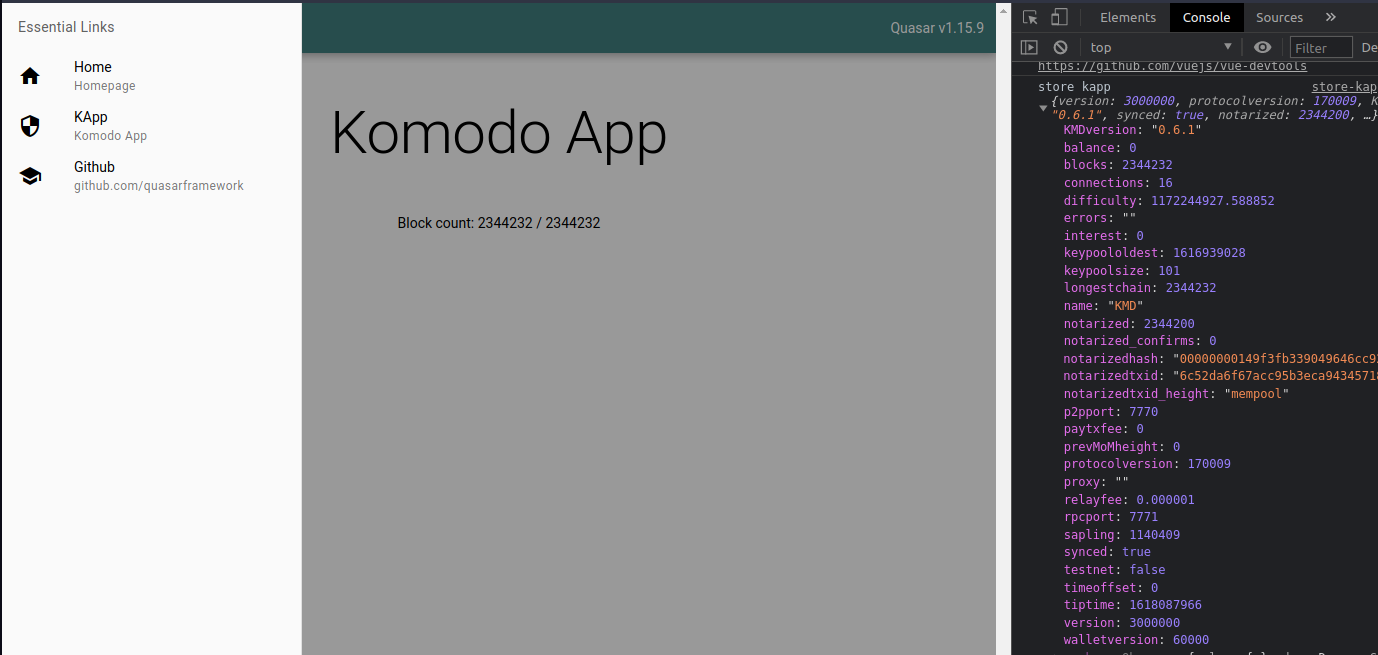
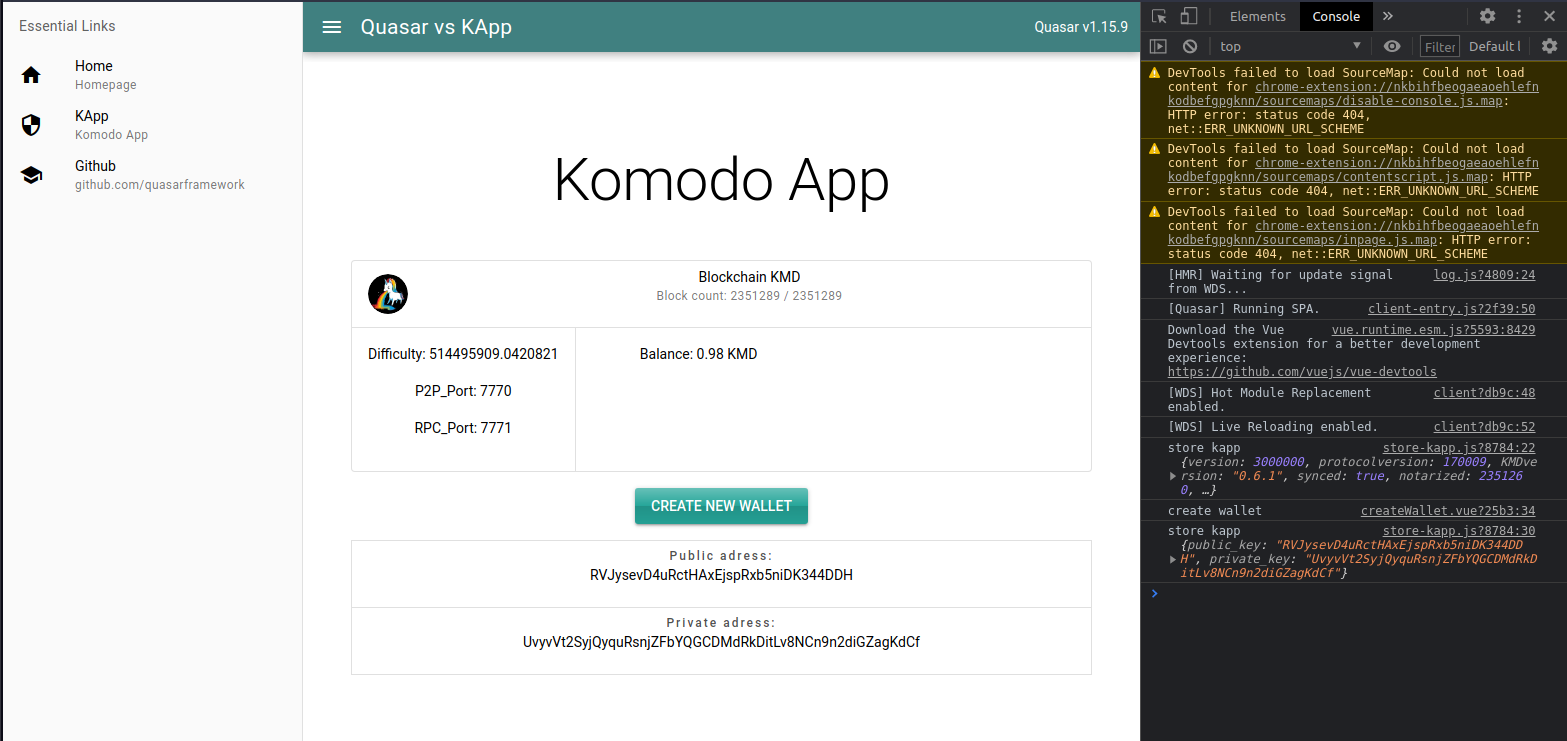
edit: getinfo // add: createNewWallet

diff --git a/back/router/controllers/KappController.js b/back/router/controllers/KappController.js
@@ -3,10 +3,10 @@ const SmartChain = require("node-komodo-rpc"); // Module By Gcharang
 
 // Config komodo.conf
 const config = {
-    rpchost: "localhost", // to put in the .env
-    rpcport: 7771, // to put in the .env
-    rpcuser: "hsukrd", // to put in the .env
-    rpcpassword: "mon$uperMotDePa$$e" // to put in the .env
+  rpchost: "localhost", // to put in the .env
+  rpcport: 7771, // to put in the .env
+  rpcuser: "hsukrd", // to put in the .env
+  rpcpassword: "mon$uperMotDePa$$e" // to put in the .env
 };
 
 // Config Komodo rpc
@@ -15,28 +15,58 @@ const komodoRPC = komodo.rpc();
 
 // List actions
 module.exports = {
-    getInfo: (req, res) => {
-        komodoRPC
-          .getinfo()
-          .then(info => {
-            console.log(info);
-            res.json({ data: info })
-          })
-          .catch(error => {
-            console.log(error);
-            throw new Error(error);
-          });
-    },
-    listUnspent: (req, res) => {
-        komodoRPC
-          .listunspent(6, 9999999, [
-            "RPS3xTZCzr6aQfoMw5Bu1rpQBF6iVCWsyu",
-            "RBtNBJjWKVKPFG4To5Yce9TWWmc2AenzfZ"
-          ])
-          .then(outs => {
-            console.log(outs);
-            res.json({ data: outs })
-          })
-          .catch(error => console.log(error));
-    }
+  getInfo: (req, res) => {
+    komodoRPC
+      .getinfo()
+      .then(info => {
+        console.log(info);
+        res.json({ data: info })
+      })
+      .catch(error => {
+        console.log(error);
+        throw new Error(error);
+      });
+  },
+  listUnspent: (req, res) => {
+    komodoRPC
+      .listunspent(6, 9999999, [
+        "RPS3xTZCzr6aQfoMw5Bu1rpQBF6iVCWsyu",
+        "RBtNBJjWKVKPFG4To5Yce9TWWmc2AenzfZ"
+      ])
+      .then(outs => {
+        console.log(outs);
+        res.json({ data: outs })
+      })
+      .catch(error => console.log(error));
+  },
+  getWalletInfo: (req, res) => {
+    komodoRPC
+      .getwalletinfo()
+      .then(info => {
+        console.log(info);
+        res.json({ data: info })
+      })
+      .catch(error => {
+        console.log(error);
+        throw new Error(error);
+      });
+  },
+  createwallet: (req, res) => {
+    komodoRPC.getnewaddress().then(pub => {
+      komodoRPC.dumpprivkey(pub).then(priv => {
+        res.json({
+          data: {
+            public_key: pub,
+            private_key: priv
+          }
+        })
+      }).catch(error => {
+        console.log(error);
+        throw new Error(error);
+      });
+    }).catch(error => {
+      console.log(error);
+      throw new Error(error);
+    });
+  }
 }

diff --git a/front/src/components/getInfo.vue b/front/src/components/getInfo.vue
@@ -1,0 +1,54 @@
+<template>
+  <div>
+    <q-card class="my-card" flat bordered>
+      <q-item>
+        <q-item-section avatar>
+          <q-avatar>
+            <img src="~assets/licorn.jpeg" />
+          </q-avatar>
+        </q-item-section>
+
+        <q-item-section>
+          <q-item-label>Blockchain {{ getInfo.name }}</q-item-label>
+          <q-item-label caption>
+            <p>Block count: {{ getInfo.blocks }} / {{ getInfo.longestchain }}</p>
+          </q-item-label>
+        </q-item-section>
+      </q-item>
+
+      <q-separator />
+
+      <q-card-section horizontal>
+        <q-card-section class="col-6">
+          <p>Difficulty: {{ getInfo.difficulty }}</p>
+          <p>P2P_Port: {{ getInfo.p2pport }}</p>
+          <p>RPC_Port: {{ getInfo.rpcport }}</p>
+
+        </q-card-section>
+
+        <q-separator vertical />
+
+        <q-card-section class="col-6">
+          <p>Balance: {{ getInfo.balance }} {{ getInfo.name }}</p>
+        </q-card-section>
+      </q-card-section>
+    </q-card>
+  </div>
+</template>
+
+<script>
+import { mapActions, mapState } from 'vuex'
+
+export default {
+  name: 'GetInfo',
+  methods: {
+    ...mapActions('kapp', ['httpGetInfo'])
+  },
+  computed: {
+    ...mapState('kapp', ['getInfo'])
+  },
+  mounted () {
+    this.httpGetInfo()
+  }
+}
+</script>

diff --git a/front/src/components/createWallet.vue b/front/src/components/createWallet.vue
@@ -1,0 +1,43 @@
+<template>
+  <div class="q-mt-md">
+    <q-btn color="secondary" glossy label="Create new wallet" @click="newWallet()"/>
+    <q-list bordered separator class="q-mt-md">
+
+      <q-item clickable v-ripple>
+        <q-item-section>
+          <q-item-label overline>Public adress:</q-item-label>
+          <q-item-label>
+            <p>{{ walletCreated.public_key }} </p>
+          </q-item-label>
+        </q-item-section>
+      </q-item>
+
+      <q-item clickable v-ripple>
+        <q-item-section>
+          <q-item-label overline>Private adress:</q-item-label>
+          <q-item-label>
+            <p>{{ walletCreated.private_key }} </p>
+          </q-item-label>
+        </q-item-section>
+      </q-item>
+    </q-list>
+  </div>
+</template>
+
+<script>
+import { mapActions, mapState } from "vuex";
+
+export default {
+  name: "CreateWallet",
+  methods: {
+    newWallet () {
+      console.log('create wallet')
+      this.createNewWallet()
+    },
+    ...mapActions("kapp", ["createNewWallet"])
+  },
+  computed: {
+    ...mapState("kapp", ["walletCreated"]),
+  }
+};
+</script>

diff --git a/front/src/pages/Kapp.vue b/front/src/pages/Kapp.vue
@@ -1,12 +1,18 @@
 <template>
-  <q-page class="text-center">
+  <q-page class="text-center q-pa-xl">
     <h2> {{ title }} </h2>
-    <p> Block count: {{ getInfo.blocks }} / {{ getInfo.longestchain }} </p>
+    
+    <!-- getInfo Component -->
+    <getInfo />
+
+    <!-- Create Wallet Component -->
+    <createWallet />
+
   </q-page>
 </template>
 
 <script>
-import { mapActions, mapState } from 'vuex'
+import { getInfo, createWallet } from '../components'
 
 export default {
   name: 'PageKapp',
@@ -15,14 +21,8 @@ export default {
       title: 'Komodo App'
     }
   },
-  methods: {
-    ...mapActions('kapp', ['httpGetInfo'])
-  },
-  computed: {
-    ...mapState('kapp', ['getInfo'])
-  },
-  mounted () {
-    this.httpGetInfo()
+  components: {
+    createWallet, getInfo
   }
 }
 </script>

diff --git a/front/src/store/store-kapp.js b/front/src/store/store-kapp.js
@@ -1,12 +1,16 @@
 import axios from 'axios'
 
 const state = {
-  getInfo: {}
+  getInfo: {},
+  walletCreated: {}
 }
 
 const mutations = {
   setGetInfo (state, value) {
     state.getInfo = value
+  },
+  setCreateNewWallet (state, value) {
+    state.walletCreated = value
   }
 }
 
@@ -17,6 +21,14 @@ const actions = {
       .then((res) => {
         console.log('store kapp', res.data.data)
         commit('setGetInfo', res.data.data)
+      })
+  },
+  createNewWallet ({ commit }) {
+    axios
+      .get('/createwallet')
+      .then((res) => {
+        console.log('store kapp', res.data.data)
+        commit('setCreateNewWallet', res.data.data)
       })
   }
 }

diff --git a/back/router/router.js b/back/router/router.js
@@ -24,6 +24,14 @@ router.route('/getinfo')
 router.route('/listunspent')
     .get(KappController.listUnspent)
 
+// getBlockCount
+router.route('/getwalletinfo')
+    .get(KappController.getWalletInfo)
+
+// create
+router.route('/createwallet')
+    .get(KappController.createwallet)
+
 /* ************** *
  *  / Router
  */

diff --git a/front/src/components/index.js b/front/src/components/index.js
@@ -1,0 +1,7 @@
+import createWallet from './createWallet'
+import getInfo from './getInfo'
+
+export {
+    createWallet,
+    getInfo
+}

diff --git a/README.md b/README.md
@@ -6,5 +6,37 @@ This project is create with:
   - Quasar (VueJS, PWA, ...)
   - node-komodo-rpc By Gcharang
   - Node Js (express, ...)
+  - Komodo (Blockchain)
 
 ## ( in progress )
+
+## Pre-requisite
+
+  - Node JS V 10.16.0 with npm or yarn
+  - Quasar Js ( https://quasar.dev/quasar-cli/installation )
+  - komodod ( https://github.com/KomodoPlatform/komodo )
+
+## Run
+
+First terminal:
+(config komodo.conf -> run komodo)
+```
+komodod
+```
+
+Second terminal (ctrl + shit + t):
+(run front)
+```
+git clone https://github.com/xdrkush/tuto-kapp-vue-node.git
+cd tuto-kapp-vue-node/front
+npm i
+quasar dev
+```
+
+Third terminal (ctrl + shift + t):
+```
+cd ../back
+npm i
+nodemon server.js
+```
+
